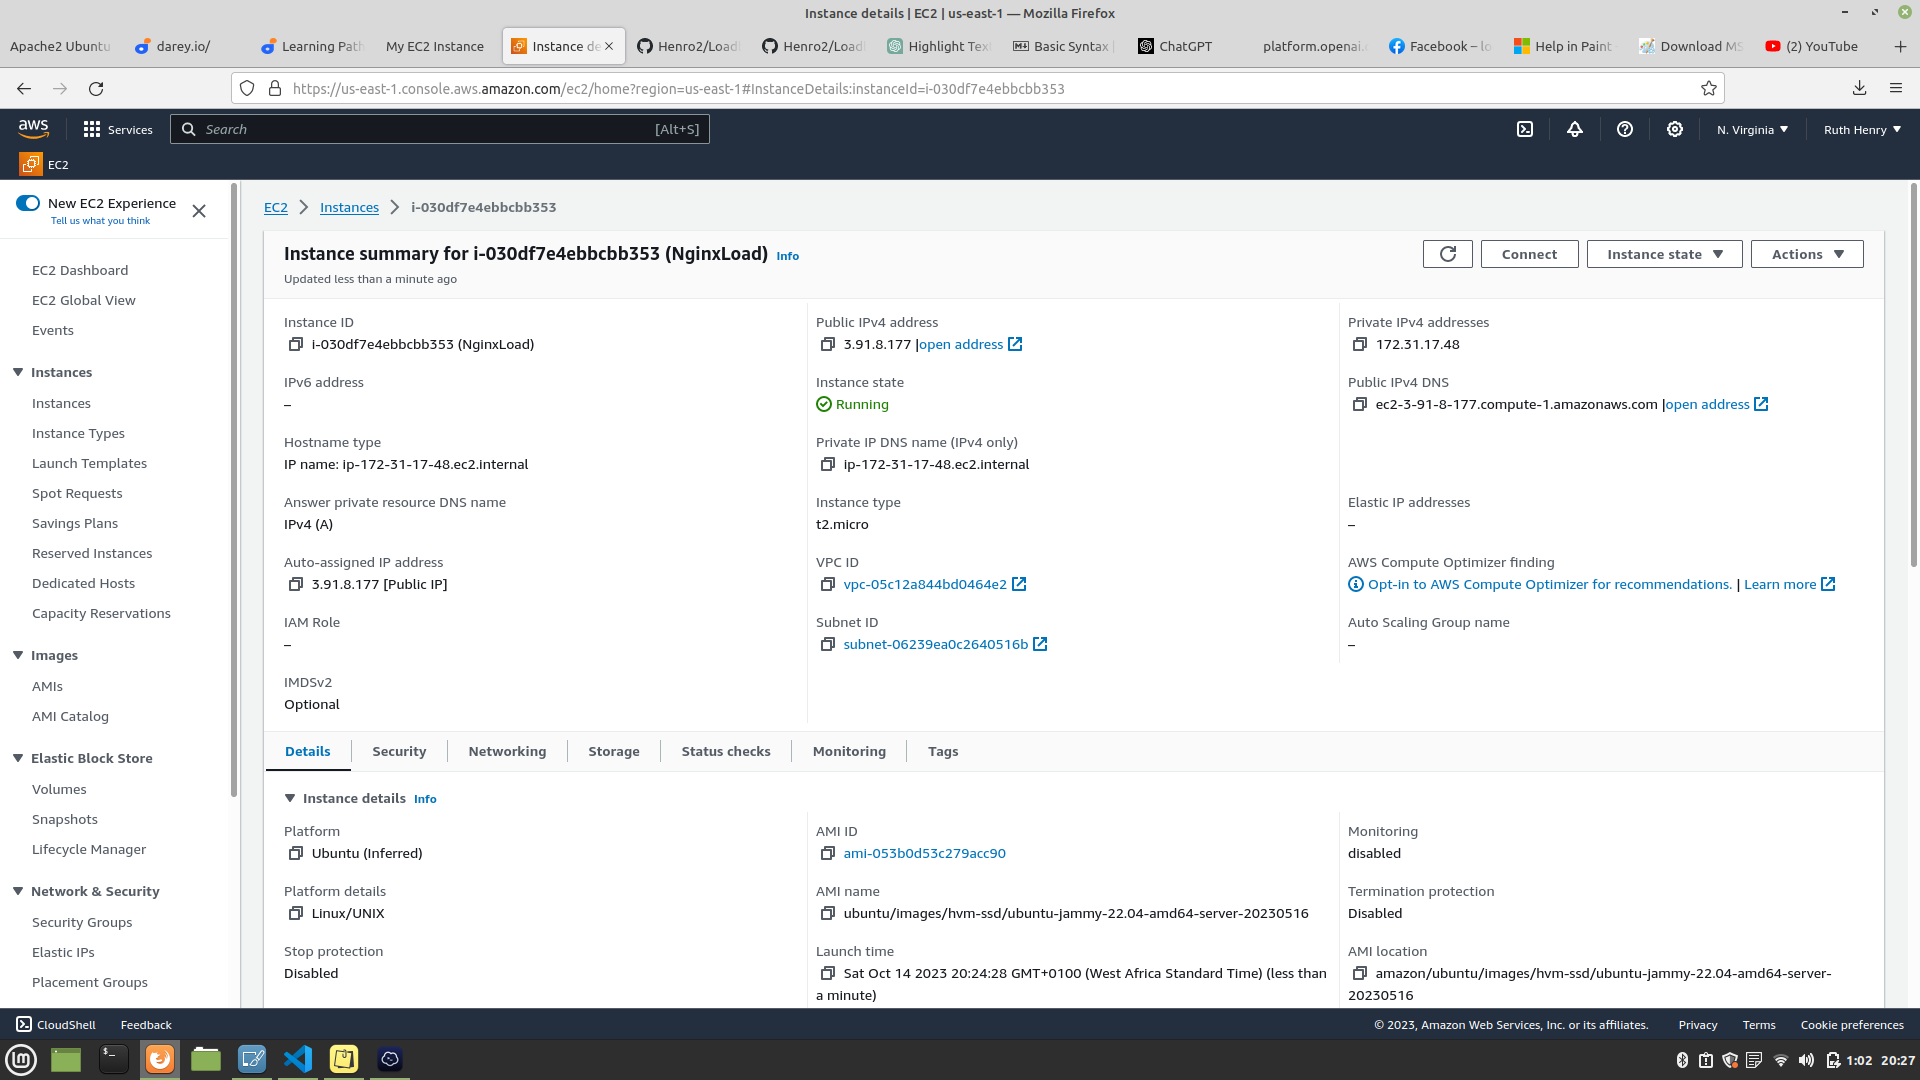
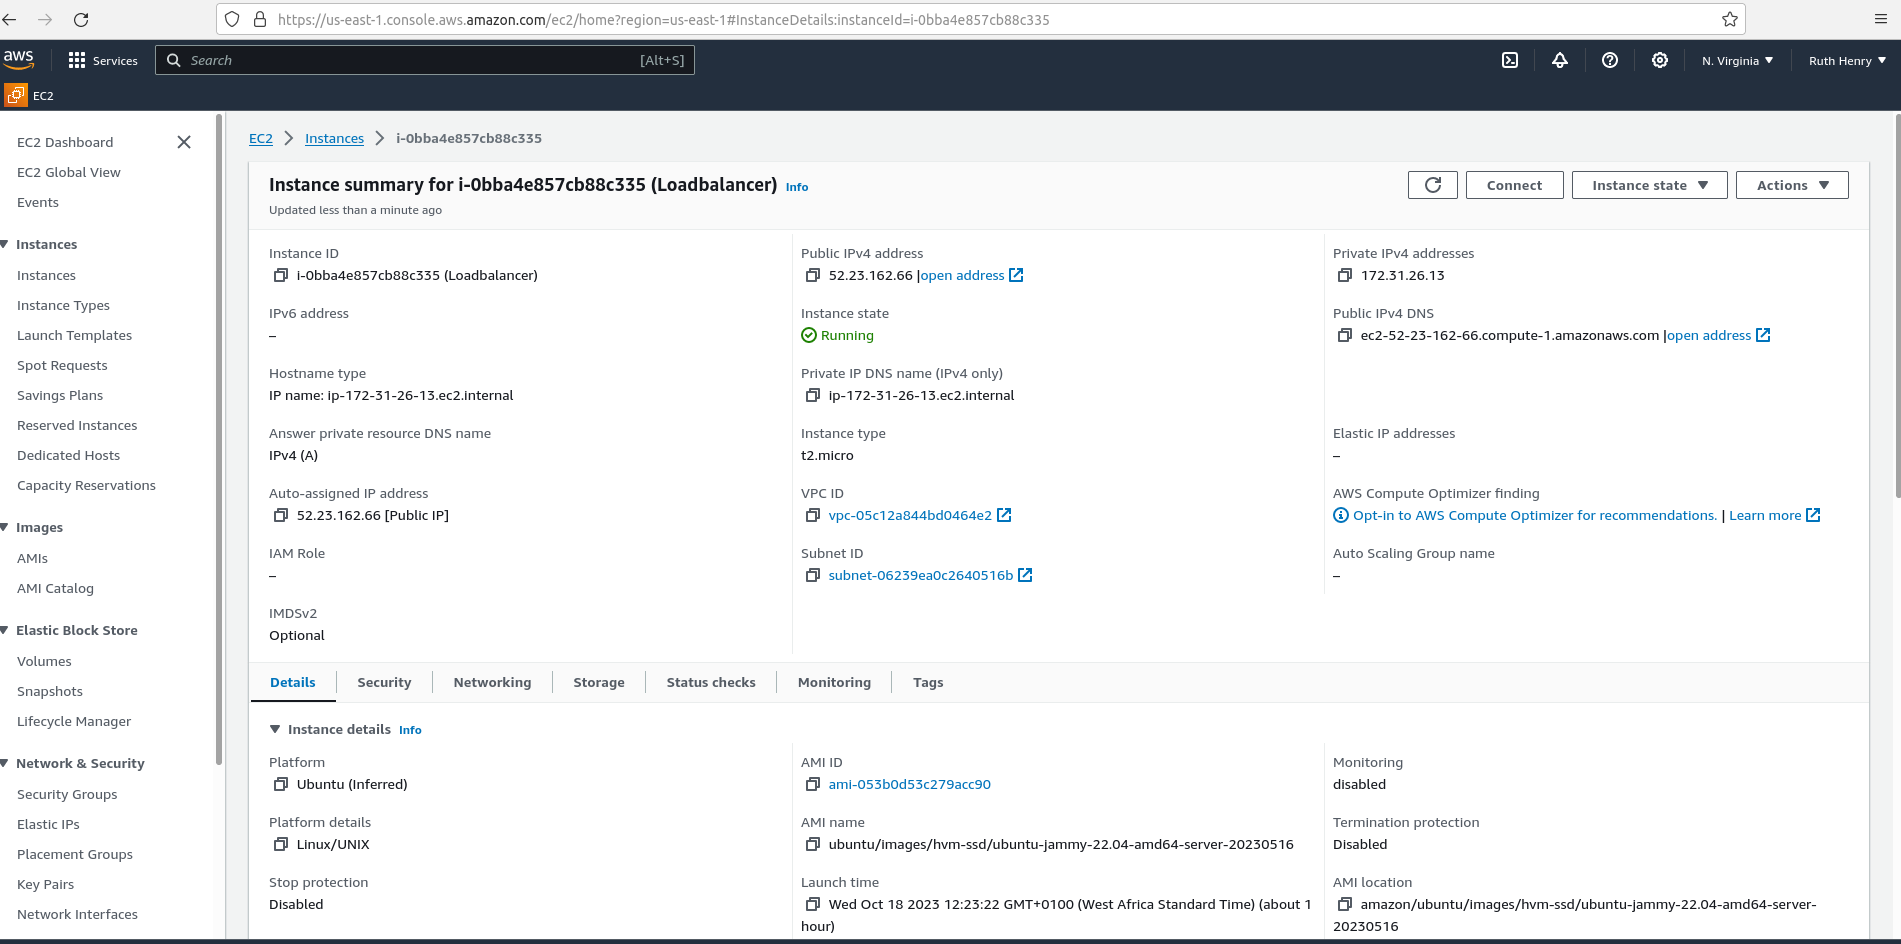
Project Completed, Thank you

diff --git a/README.md b/README.md
@@ -9,9 +9,9 @@
 **Step 1**
 
 
-**Provissioning EC2 instance**
+**Provissioning EC2 instance called myapcheserver**
 
--  Created an ubuntu instance in Aws 
+-  Created an ubuntu instance in Aws called myapacheserver
 
     ![Alt text](Images/instance.png)
 
@@ -27,14 +27,14 @@
    ![Alt text](Images/rule.png)
 
 
--  With Termius, I connected successfully to my EC2 ubuntu instance
+-  With Termius, I connected successfully to myapacheserver
 
     ![Alt text](Images/termiusConnection.png)
 
 
 
 
-- With **sudo apt update**, I updated my ubunu instance 
+- With **sudo apt update**, I updated it
 
 
    ![Alt text](Images/update.png)
@@ -100,7 +100,7 @@
 **Configuring Nginx as Load Balancer**
 
 
--  I provissioned another ubuntu Ec2 instance called Nginxload.
+-  I provissioned another ubuntu Ec2 instance called Loadbalancer.
 
 
 
@@ -126,6 +126,35 @@
     ![Alt text](Images/loadbalnceredited.png)
 
     ![Alt text](loadbalnceredited2png.png)
+
+    
+
+
+
+
+  
+
+-  To prevent nginx loadbalancer from loading its default config on port 80 which will load nginx default page, I changed the port to an unknown port which is not added in the inboud rule.  This activated my new configuration file which will listen on port 80 
+
+
+
+
+
+-  using this command, **Curl localhost**, loaded my apache server content as shown bellow: 
+
+  ![Alt text](Images/curlloadbalancer.png)
+
+
+  -  Using the public ip address of myloadbalancer in my browser, it opened my apache server content.
+
+![Alt text](Images/loadbalanceip.png)
+
+
+
+**Project completed** 
+
+
+  
 
 
     
